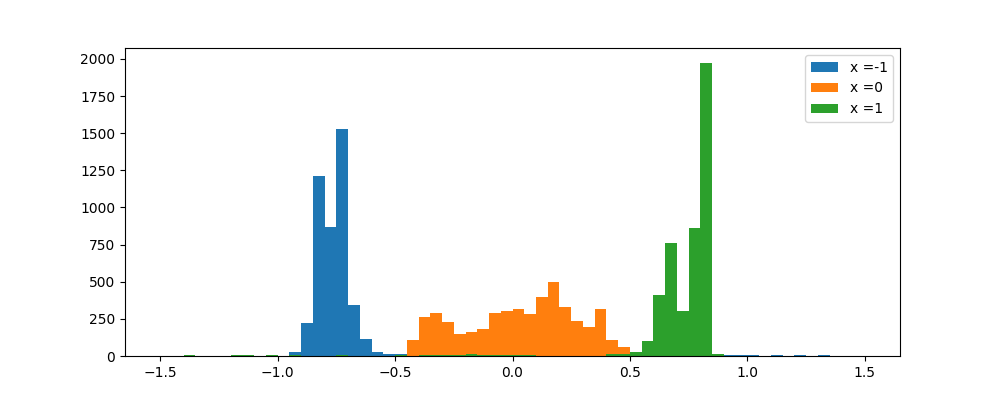
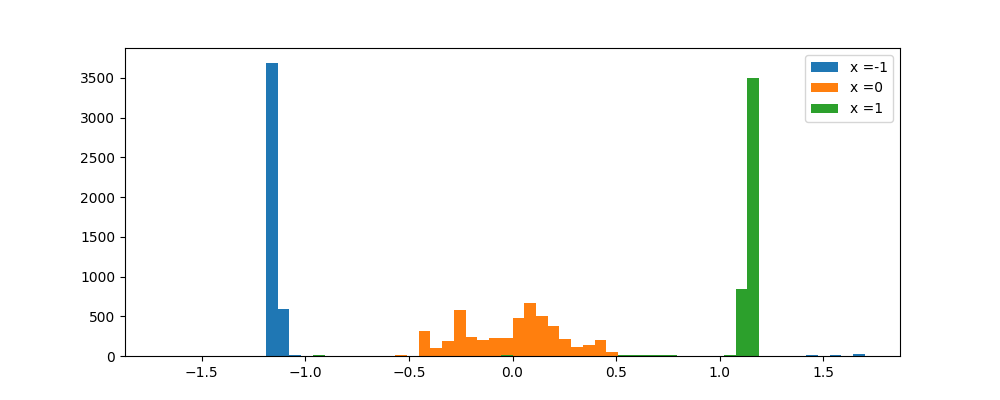
generic commit

diff --git a/scripts/transport/kvae_diffusion.py b/scripts/transport/kvae_diffusion.py
@@ -631,7 +631,9 @@ def two_d_exp(ref_gen, target_gen, N=4000, plt_range=None, process_funcs=[], nor
     except OSError:
         pass
 
+    mu, sigma = 0, 1
     if normal:
+        mu,sigma = get_base_stats(target_gen, 5000)
         ftarget_gen = lambda N: normalize(target_gen(N))
     else:
         ftarget_gen = target_gen
@@ -644,16 +646,17 @@ def two_d_exp(ref_gen, target_gen, N=4000, plt_range=None, process_funcs=[], nor
                                                          reg_lambda=reg_lambda, plot_steps = plot_steps)
 
     cond_gen = lambda N: ftarget_gen(N)[:, idx_dict['cond'][0]]
-    mu, sigma = 0,1
+    cmu, csigma = 0,1
     if normal:
-        mu,sigma = get_base_stats(cond_gen, 5000)
-    normal_slice_vals = (np.asarray(slice_vals)-mu)/sigma
+        cmu,csigma = get_base_stats(cond_gen, 5000)
+    normal_slice_vals = (np.asarray(slice_vals)-cmu)/csigma
 
     for i,slice_val in enumerate(normal_slice_vals):
         ref_sample = ref_gen(N_plot)
         ref_slice_sample = ftarget_gen(N_plot)
         ref_slice_sample[:, idx_dict['cond'][0]] = slice_val
-        slice_sample = compositional_gen(trained_models, ref_sample, ref_slice_sample, idx_dict)
+        slice_sample = compositional_gen(trained_models, ref_sample, ref_slice_sample, idx_dict)]
+        slice_sample = (slice_sample * sigma) + mu
         plt.hist(slice_sample[:, 1], bins=bins, range=slice_range, label=f'x ={slice_vals[i]}')
     if len(slice_vals):
         plt.legend()
